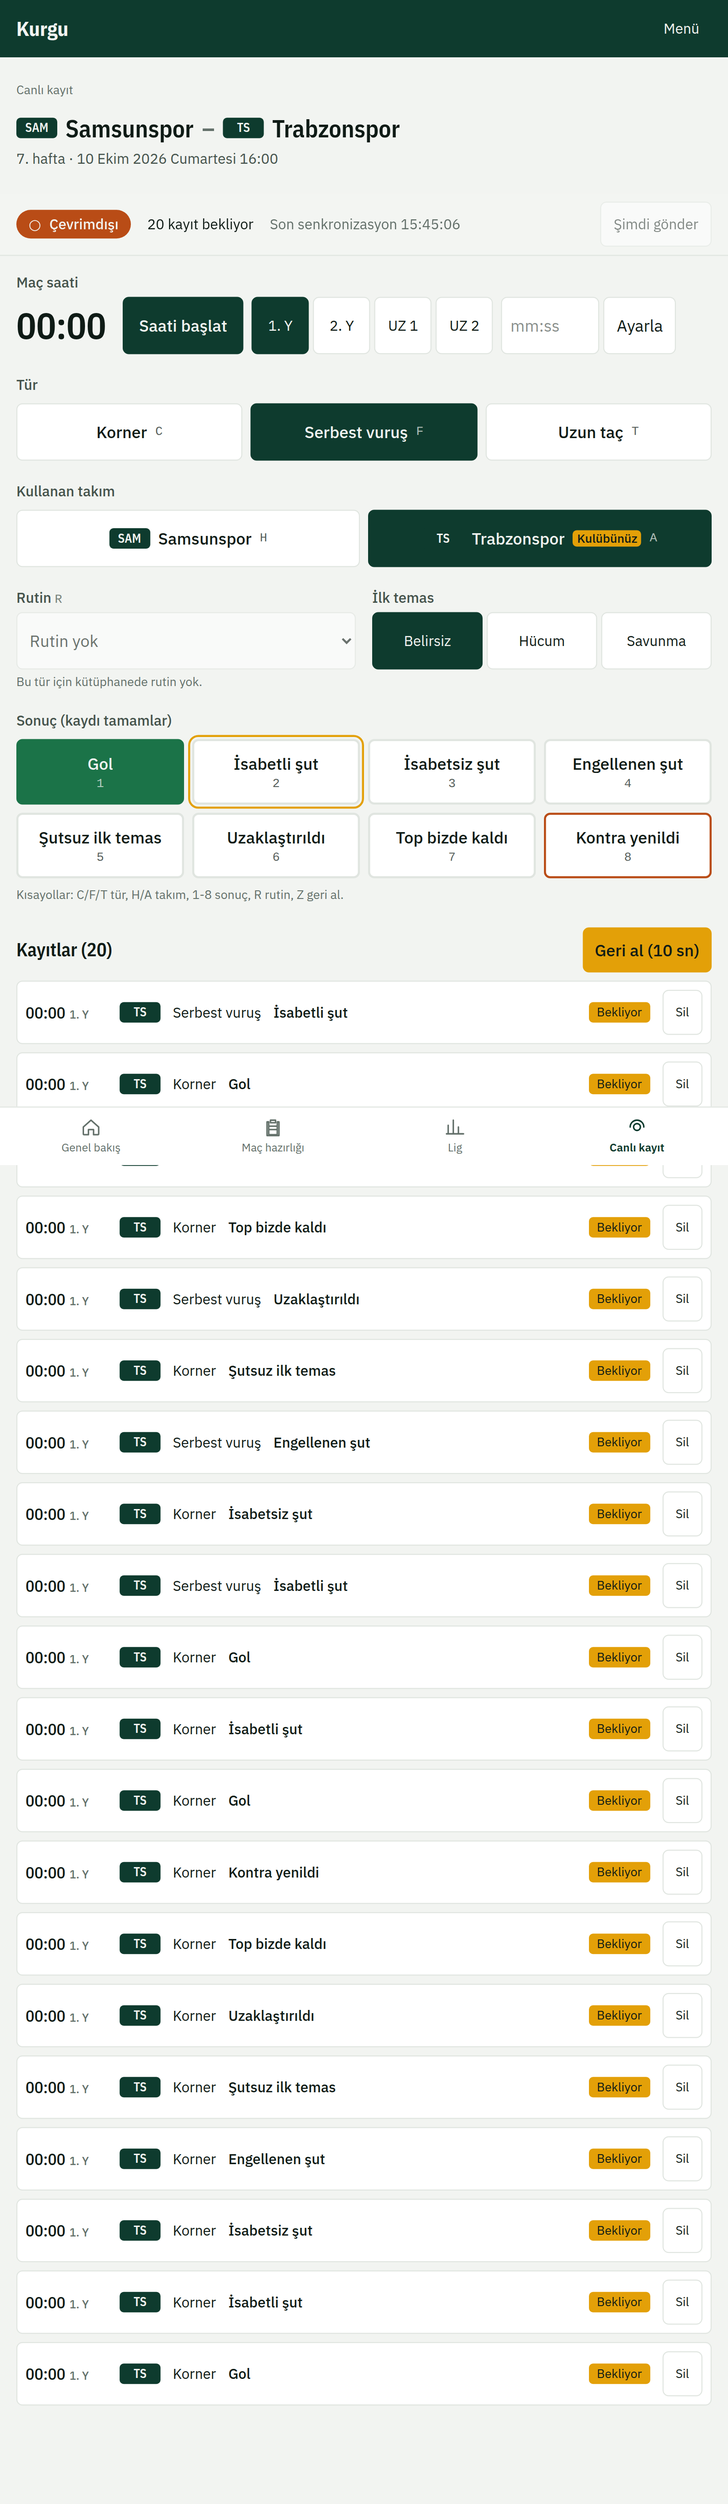
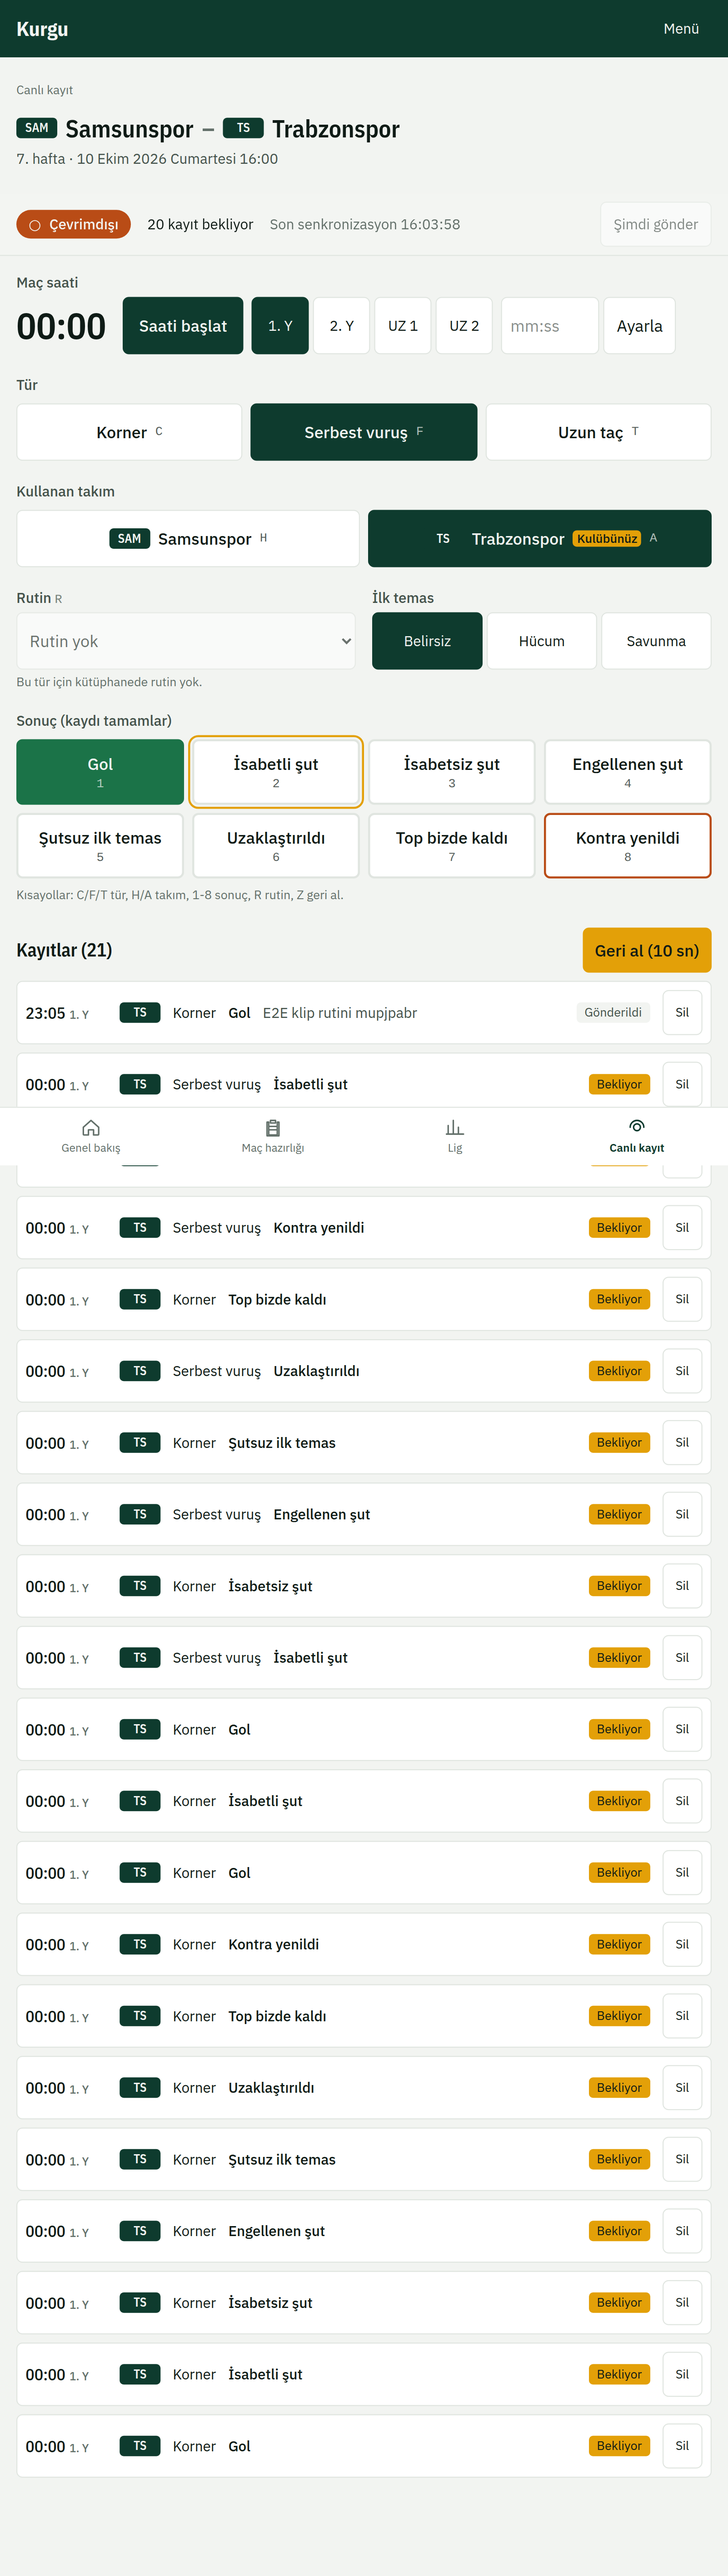
docs: record Faz 5 report, ADR-0011 and assumptions A-65 to A-67
Also names the codec when a browser cannot decode H.264 video.

Claude-Session: https://claude.ai/code/session_01BD4UkyiCffK1tVCPYxeYXs

diff --git a/apps/web/src/components/video/VideoWorkspace.tsx b/apps/web/src/components/video/VideoWorkspace.tsx
@@ -66,7 +66,7 @@ export function VideoWorkspace({
   const stopAt = useRef<number | null>(null);
   const [ready, setReady] = useState(false);
   const [manifest, setManifest] = useState(false);
-  const [playerError, setPlayerError] = useState(false);
+  const [playerError, setPlayerError] = useState<"codec" | "generic" | null>(null);
   const [start, setStart] = useState("");
   const [end, setEnd] = useState("");
   const [title, setTitle] = useState("");
@@ -89,13 +89,17 @@ export function VideoWorkspace({
       void import("hls.js").then(({ default: HlsJs }) => {
         if (cancelled) return;
         if (!HlsJs.isSupported()) {
-          setPlayerError(true);
+          setPlayerError("generic");
           return;
         }
         hls = new HlsJs();
         hls.on(HlsJs.Events.MANIFEST_PARSED, () => setManifest(true));
         hls.on(HlsJs.Events.ERROR, (_event, data) => {
-          if (data.fatal) setPlayerError(true);
+          if (!data.fatal) return;
+          const h264 =
+            typeof MediaSource !== "undefined" &&
+            MediaSource.isTypeSupported('video/mp4; codecs="avc1.42E01E"');
+          setPlayerError(h264 ? "generic" : "codec");
         });
         hls.loadSource(src);
         hls.attachMedia(video);
@@ -203,7 +207,7 @@ export function VideoWorkspace({
         />
         {playerError ? (
           <p role="alert" className="text-sm text-neg">
-            {t("errors.player")}
+            {t(playerError === "codec" ? "errors.codec" : "errors.player")}
           </p>
         ) : null}
         {canEdit ? (

diff --git a/docs/PROGRESS.md b/docs/PROGRESS.md
@@ -1,7 +1,7 @@
 # İlerleme
 
-**Durum:** Faz 0-2 tamam ve `main`'e birleşti (PR #1-#3, 01.10.2026). Faz 3 (rutin kütüphanesi) tamam; `faz-3-rutinler` dalında, birleştirme onayı bekliyor.
-**Sonraki adım:** Faz 5 görevleri (aşağıda) `faz-5-canli` dalında.
+**Durum:** Faz 0-4 tamam ve `main`'e birleşti (PR #1-#5, 01.10.2026). Faz 5 (canlı kayıt ve video) tamam; `faz-5-canli` dalında, birleştirme onayı bekliyor.
+**Sonraki adım:** Faz 6 (raporlar ve LLM).
 
 Kurallar: Her görev küçük bir commit'tir (Conventional Commits, İngilizce). Her commit öncesi `make lint typecheck test` temiz olmalı. Bir görev SPEC §19 DoD'yi karşılamadan işaretlenmez. Faz sonunda kabul kriterleri işaretlenir ve kısa rapor verilir.
 
@@ -329,34 +329,39 @@ Kurallar: Her görev küçük bir commit'tir (Conventional Commits, İngilizce).
 ## Faz 5: Canlı kayıt ve video
 
 ### Kabul kriterleri (SPEC §19)
-- [ ] PWA kurulabilir. Uçak modu E2E testi geçer. Çoklu cihaz senkronizasyonu çalışır.
-- [ ] Video yükleme → HLS → klip → duran topa bağlama → rutin istatistiğinde klip görünür.
+- [x] PWA kurulabilir. Uçak modu E2E testi geçer. Çoklu cihaz senkronizasyonu çalışır.
+- [x] Video yükleme → HLS → klip → duran topa bağlama → rutin istatistiğinde klip görünür.
+
+### Rapor
+- **Yapıldı:** Göç `0006_live_video`; senkronizasyon uçları (maç başına tek oturum, toplu ve idempotent gönderim, son yazan ve silme kazanır, `since` ile çekme); kayıt → `set_pieces` ve metrik görünümü yenileme; imzalı parçalı video yükleme (S3/MinIO ve HMAC imzalı yerel depo), worker'da ffmpeg ile HLS, oynatma listesi, klipler. Web: PWA (bildirim, simgeler, hizmet çalışanı), `/live` ve tablet öncelikli kayıt ekranı (Dexie kuyruğu, kısayollar, 10 sn geri al, maç saati, iki cihaz), `/video` (yükleme ilerlemesi, durum, hls.js oynatıcı, klip kesme ve duran topa bağlama), rutin sayfasında klipler, hazırlık sayfasında maçtan geri bildirim paneli. Python 409, web 40, pitch 61, ui 5 test; E2E 34 geçti, 2 atlandı. Uçak modu testinde 20 kayıt çevrimdışı yazılıyor, sayfa çevrimdışı yenileniyor, çevrimiçine dönünce sunucuda tam 20 kayıt var ve yeniden gönderim kopya üretmiyor.
+- **Sapmalar:** Çoklu cihaz bildirimi WebSocket yerine 5 sn çekmeyle (A-57). Hizmet çalışanı Serwist yerine elle yazıldı (ADR-0011). Tek tekil fikstür ucu eklendi (`GET /fixtures/{id}`). Maçın duran topları okuma izniyle açık (A-66). Kısayollarda SPEC'teki `1-6` yerine sekiz sonuç için `1-8` ve geri alma için `Z` (A-58).
+- **Riskler:** Canlı kayıt A-36 gereği o takım-sezonun olay toplamlarını kulübün kendi kaydına çevirir; tek maç kaydedilmiş bir takımın değerleri ilk maçlarda "Az veri" ile görünür. Playwright'ın Chromium'u H.264 çözemediği için oynatma E2E'de yalnız teslim düzeyinde doğrulanıyor (A-65); gerçek Chrome, Edge ve Safari'de oynar. MinIO CORS ayarı (`MINIO_API_CORS_ALLOW_ORIGIN`) bu ortamda değil, CI'daki compose'da sınanacak. Uzun maç videolarının dönüştürme süresi ölçülmedi; iş süre sınırı 4 saat.
 
 ### Görevler
 
 **5.1 Senkronizasyon (ADR-0004, A-56 … A-59)**
-- [ ] Göç `0006_live_video`: `live_tags.server_seq`, maç başına tek oturum, `video_assets`, `video_clips`. RLS, izinler, göç döngüsü.
-- [ ] `POST /tagging-sessions` (maç başına al ya da aç), `POST /tagging-sessions/{id}/sync` (toplu, idempotent, son yazan kazanır, silme kazanır), `GET /tagging-sessions/{id}/tags?since=`.
-- [ ] Kayıt → `set_pieces` (`source='live_tag'`); metrik görünümü yenileme işi.
-- [ ] Testler: idempotentlik, sıralama, mezar taşı, iki cihaz, izinler, kiracı izolasyonu.
+- [x] Göç `0006_live_video`: `live_tags.server_seq`, maç başına tek oturum, `video_assets`, `video_clips`. RLS, izinler, göç döngüsü.
+- [x] `POST /tagging-sessions` (maç başına al ya da aç), `POST /tagging-sessions/{id}/sync` (toplu, idempotent, son yazan kazanır, silme kazanır), `GET /tagging-sessions/{id}/tags?since=`.
+- [x] Kayıt → `set_pieces` (`source='live_tag'`); metrik görünümü yenileme işi.
+- [x] Testler: idempotentlik, sıralama, mezar taşı, iki cihaz, izinler, kiracı izolasyonu.
 
 **5.2 Video (ADR-0010, A-60 … A-62)**
-- [ ] Depo: imzalı çok parçalı yükleme (S3/MinIO) ve HMAC imzalı yerel adresler.
-- [ ] `POST /video/uploads`, `POST /video/assets/{id}/complete`, `GET /video/assets`, oynatma listesi, `GET/POST /clips`, `PATCH/DELETE /clips/{id}`.
-- [ ] Worker: ffmpeg ile HLS ve süre; durum makinesi.
-- [ ] Rutin istatistiğinde klipler.
-- [ ] Testler: imza, parça birleştirme, HLS üretimi (gerçek ffmpeg), klip doğrulaması.
+- [x] Depo: imzalı çok parçalı yükleme (S3/MinIO) ve HMAC imzalı yerel adresler.
+- [x] `POST /video/uploads`, `POST /video/assets/{id}/complete`, `GET /video/assets`, oynatma listesi, `GET/POST /clips`, `PATCH/DELETE /clips/{id}`.
+- [x] Worker: ffmpeg ile HLS ve süre; durum makinesi.
+- [x] Rutin istatistiğinde klipler.
+- [x] Testler: imza, parça birleştirme, HLS üretimi (gerçek ffmpeg), klip doğrulaması.
 
 **5.3 Arayüz**
-- [ ] PWA: manifest, simgeler, servis çalışanı (uygulama kabuğu ve `/live/*` önbelleği).
-- [ ] `/live` ve `/live/[fixtureId]`: büyük dokunma hedefleri (≥ 56 px), kısayollar, Dexie kuyruğu, çevrimiçi/çevrimdışı ve bekleyen sayısı, 10 sn geri al, maç saati, diğer cihazların kayıtları.
-- [ ] `/video`: yükleme (parçalı, ilerleme), dönüştürme durumu, oynatıcı (hls.js), klip kesme ve duran topa bağlama.
-- [ ] Rutin sayfasında klipler; hazırlık sayfasında öneri geri bildirimi (A-63).
+- [x] PWA: manifest, simgeler, servis çalışanı (uygulama kabuğu ve `/live/*` önbelleği).
+- [x] `/live` ve `/live/[fixtureId]`: büyük dokunma hedefleri (≥ 56 px), kısayollar, Dexie kuyruğu, çevrimiçi/çevrimdışı ve bekleyen sayısı, 10 sn geri al, maç saati, diğer cihazların kayıtları.
+- [x] `/video`: yükleme (parçalı, ilerleme), dönüştürme durumu, oynatıcı (hls.js), klip kesme ve duran topa bağlama.
+- [x] Rutin sayfasında klipler; hazırlık sayfasında öneri geri bildirimi (A-63).
 
 **5.4 Doğrulama ve kapanış**
-- [ ] E2E: uçak modunda 20 kayıt → çevrimiçi → sunucuda 20 kayıt, yineleme yok; iki cihaz senkronizasyonu; video yükleme → HLS → klip → duran top → rutin sayfasında klip; axe.
-- [ ] `docs/demo/faz5/` ekran görüntüleri; CLAUDE.md komutları güncel.
-- [ ] Kabul kriterleri işaretlendi, kısa rapor verildi.
+- [x] E2E: uçak modunda 20 kayıt → çevrimiçi → sunucuda 20 kayıt, yineleme yok; iki cihaz senkronizasyonu; video yükleme → HLS → klip → duran top → rutin sayfasında klip; axe.
+- [x] `docs/demo/faz5/` ekran görüntüleri; CLAUDE.md komutları güncel.
+- [x] Kabul kriterleri işaretlendi, kısa rapor verildi.
 
 ---
 

diff --git a/docs/adr/0011-hand-written-service-worker.md b/docs/adr/0011-hand-written-service-worker.md
@@ -1,0 +1,21 @@
+# ADR-0011: Elle yazılmış hizmet çalışanı (Serwist yerine)
+
+- **Durum:** Kabul edildi · 01.10.2026
+- **İlgili:** SPEC §13.1 (`/live/[fixtureId]` çevrimdışı çalışır), CLAUDE.md yığın listesi (Serwist), ADR-0004, ADR-0006
+
+## Bağlam
+Yığın listesi PWA için Serwist diyor. Proje Next.js 16 ve Turbopack ile derleniyor (ADR-0006). Serwist'in Next eklentisi webpack derlemesine bağlı; Turbopack desteği ayrı ve yeni bir paketle geliyor. Faz 5'te çevrimdışı gereksinim dar: canlı kayıt sayfası ve onun statik dosyaları. Kayıtların kendisi IndexedDB'de (Dexie) duruyor, yani hizmet çalışanı veri önbelleklemiyor.
+
+## Karar
+- `apps/web/public/sw.js` elle yazılır (yaklaşık 100 satır), derleme adımı yoktur.
+  - `/_next/static/*` ve simgeler: önce önbellek (dosya adları içerik özeti taşır).
+  - `/live` ve `/live/*` sayfa gezintileri: önce ağ, ağ yoksa son kaydedilen sayfa; hiç açılmamışsa kısa bir çevrimdışı sayfa.
+  - `/api/*` ve diğer istekler önbelleğe alınmaz.
+- Sayfa her gezintide açtığı yolu ve yüklediği dosyaları çalışana bildirir (`warm` mesajı). Böylece ilk ziyaretten sonra da maç sayfası çevrimdışı açılır.
+- Kayıt yalnız üretim derlemesinde yapılır. Önbellek adı sürümlüdür (`kurgu-v1`); değişince eski önbellekler silinir.
+- Bildirim `app/manifest.ts` ile üretilir; 192, 512 ve maskelenebilir 512 simgeleri `public/icons/` altındadır.
+
+## Sonuçlar
+- Turbopack derlemesi değişmez, ek bağımlılık yoktur; davranış tek dosyada okunur.
+- Önbellek kuralları elle bakım ister. Arka planda senkronizasyon (Background Sync) yoktur; senkronizasyon sayfa açıkken çalışır (5 sn çekme, `online` olayı, her kayıttan sonra).
+- Serwist'in Turbopack desteği olgunlaşırsa bu dosya ona taşınabilir; davranış sözleşmesi bu ADR'dir.

diff --git a/docs/assumptions.md b/docs/assumptions.md
@@ -164,3 +164,10 @@ Kabul edilen öneri plana madde ekler: hücum ve denge önerileri MD-3'e (sıkı
 **A-63 · VARSAYIM · Öneri geri bildirimi (A-54'ün devamı).** Oynanmış bir maçın hazırlık sayfasında, kabul edilen her öneri için maçtaki ilgili canlı kayıtlar gösterilir: hücum önerilerinde kulübün, savunma önerilerinde rakibin duran topları. Panelde "ilişki, neden değil" uyarısı bulunur; başarı puanı hesaplanmaz.
 
 **A-64 · VARSAYIM · Test videosu.** E2E testi için ffmpeg'in `testsrc` deseniyle üretilmiş 10 saniyelik sentetik bir video repoya eklenir. Gerçek maç görüntüsü kullanılmaz.
+
+**A-65 · VARSAYIM · E2E'de canlı kayıt ve video en sona.** Canlı kayıt duran top satırı yazar ve A-36 gereği kulübün o takım-sezon olay toplamlarını geçici olarak değiştirir. Bu yüzden `live` ve `video` E2E dosyaları ayrı bir Playwright projesinde (`pwa`, tablet) masaüstü ve tablet projelerinden sonra çalışır ve oluşturdukları kayıtları siler. Playwright'ın Chromium'unda H.264/AAC çözücü yok; video E2E testi HLS teslimini (oynatma listesi ve parça) her tarayıcıda, oynatmayı yalnız çözücü varsa doğrular.
+
+**A-66 · VARSAYIM · Maçın duran topları okuma iznidir.** `GET /fixtures/{id}/set-pieces` canlı kayıt izni yerine `read_analysis` ister; hazırlık sayfasındaki geri bildirim paneli (A-63) teknik direktör ve izleyici rollerine de görünür. Kayıt yazma uçları `live_tagging_video` izninde kalır.
+
+**A-67 · VARSAYIM · Video silme depoyu da temizler.** Videoyu silmek kliplerini (yabancı anahtarla) ve depodaki kaynak ile HLS dosyalarını siler. Yarım kalan yükleme iptal edilir. Silme denetim kaydına yazılır.
+

diff --git a/CLAUDE.md b/CLAUDE.md
@@ -32,6 +32,8 @@ Kurgu, profesyonel futbol kulüpleri için bir duran top analiz ve hazırlık pl
 - `make statsbomb-fetch` (StatsBomb Open Data'yı `data/statsbomb` önbelleğine indirir, repoya girmez) · `make statsbomb-load` (worker ile yükler) · `make validate` (duran top doğrulama raporu) · `make spadl-compare` (socceraction karşılaştırması).
 - Maç hazırlığı: web `/prep`, `/prep/{fixtureId}` (öneriler, kabul/red, MD planı); kurallar `/admin/rules` (düzenleme, deneme, sürüm geçmişi). API `GET /fixtures/{id}/prep`, `POST /recommendations/{id}/decision`, `POST /rule-sets/dry-run`.
 - Rutinler: web `/routines` (kütüphane, şablonlar, editör, sürüm karşılaştırma); kart indirme `GET /routines/{id}/versions/{v}/export?format=pdf|png`.
+- Canlı kayıt: web `/live`, `/live/[fixtureId]` (çevrimdışı çalışır; PWA). Video: web `/video` (yükleme, HLS, klip). Worker HLS işi için ffmpeg `imageio-ffmpeg` paketinden gelir; `sudo` gerekmez.
+- E2E projeleri: `desktop`, `tablet` ve onlardan sonra çalışan `pwa` (canlı kayıt ve video; A-65). Tek başına: `pnpm --filter @kurgu/web exec playwright test --project=pwa --no-deps`.
 - CSV/Excel içe aktarım: web `/admin/imports` (yalnız yönetici); API `POST /imports`, `PUT /imports/{id}/mapping`, `POST /imports/{id}/commit`.
 - `make test` (`test-py`, `test-js`) · `make lint` · `make typecheck` · `make e2e`
 - `make migrate`: Alembic upgrade. `make migrate-cycle`: upgrade → downgrade → upgrade.

diff --git a/docs/adr/0010-video-pipeline.md b/docs/adr/0010-video-pipeline.md
@@ -27,7 +27,7 @@ Kulüp başına sezonda yaklaşık 60 maç videosu ve video başına 2-4 GB bekl
   - Klip başlangıç ve bitişi video saniyesidir.
   - `set_piece_id` isteğe bağlıdır ve aynı maçın, aynı kiracının duran topunu göstermelidir.
   - Rutin istatistikleri klipleri listeler.
-- **Güvenlik.** Tür ve boyut sınırı (A-60), kiracı ön ekli anahtarlar (`video/<kiracı>/<varlık>/…`), imzalı adreslerin kısa ömrü ve her yazma işleminin denetim kaydı.
+- **Güvenlik.** Tür ve boyut sınırı (A-60), kiracı ön ekli anahtarlar (`<kiracı>/videos/<varlık>/source`, HLS `…/hls/`), imzalı adreslerin kısa ömrü ve her yazma işleminin denetim kaydı.
 
 ## Sonuçlar
 - **Artı:** Büyük dosyalar uygulama sunucularından geçmez; yükleme parçalı olduğu için kesintide yalnızca eksik parçalar yeniden gönderilir.
